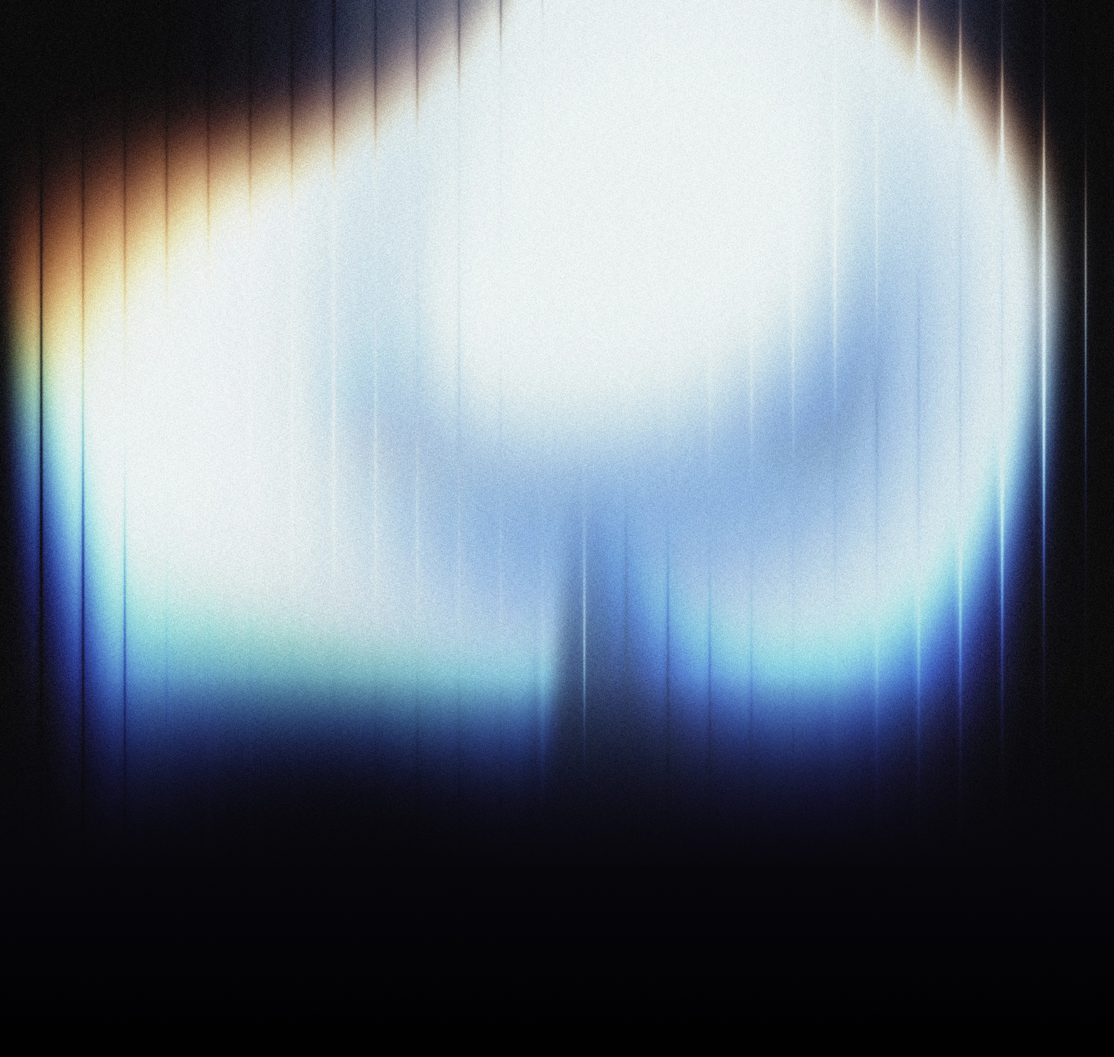
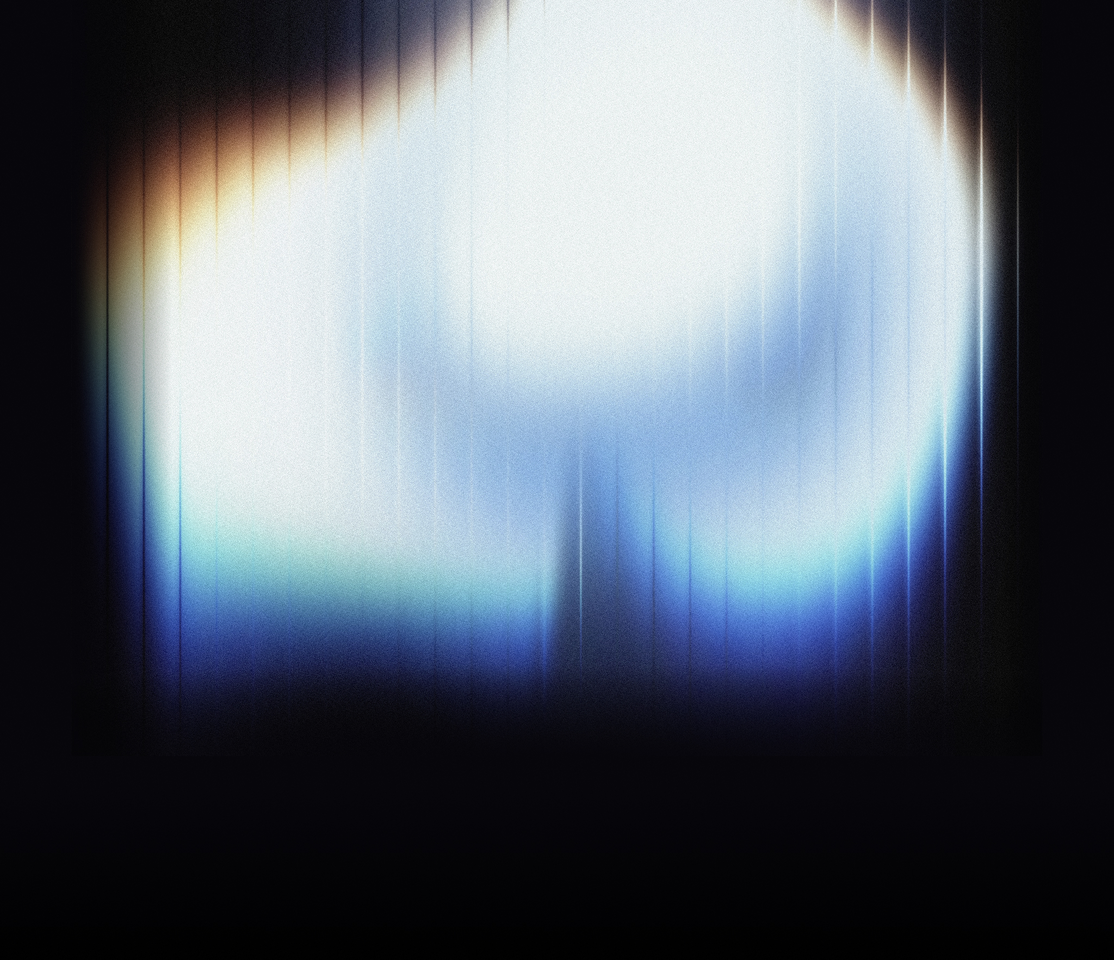
feat: new magic preview

Changed region(s): [[0.0, 0.0, 1.0, 0.779]]

diff --git a/apps/web/components/features/magic/hero.tsx b/apps/web/components/features/magic/hero.tsx
@@ -464,29 +464,14 @@ export function Hero() {
             transition={{ duration: 0.8, delay: 1.0, ease: [0.25, 1, 0.5, 1] }}
             className="mt-20 w-full sm:max-w-[90%] mx-auto relative"
           >
-            <MockupFrame className="w-full backdrop-blur">
+            <MockupFrame className="w-full max-w-[1400px] mx-auto backdrop-blur">
               <Mockup
                 type="responsive"
                 className="w-full aspect-[16/10] cursor-pointer"
               >
                 <div className="relative w-full h-full group">
-                  <div className="absolute inset-0 flex items-center justify-center z-20">
-                    <a
-                      href="https://screen.studio/share/2mcsIlwF"
-                      target="_blank"
-                      rel="noopener noreferrer"
-                      className="w-20 h-20 rounded-full bg-neutral-200/30 backdrop-blur-sm flex items-center justify-center transition-transform duration-200 group-hover:scale-110"
-                    >
-                      <svg
-                        className="w-12 h-12 text-white fill-current"
-                        viewBox="0 0 24 24"
-                      >
-                        <path d="M8 5v14l11-7z" />
-                      </svg>
-                    </a>
-                  </div>
                   <img
-                    src="https://vucvdpamtrjkzmubwlts.supabase.co/storage/v1/object/public/images//screenshot_magic.png"
+                    src="/magic-preview.png"
                     alt="Magic Agent Demo"
                     className="object-cover object-center"
                   />
